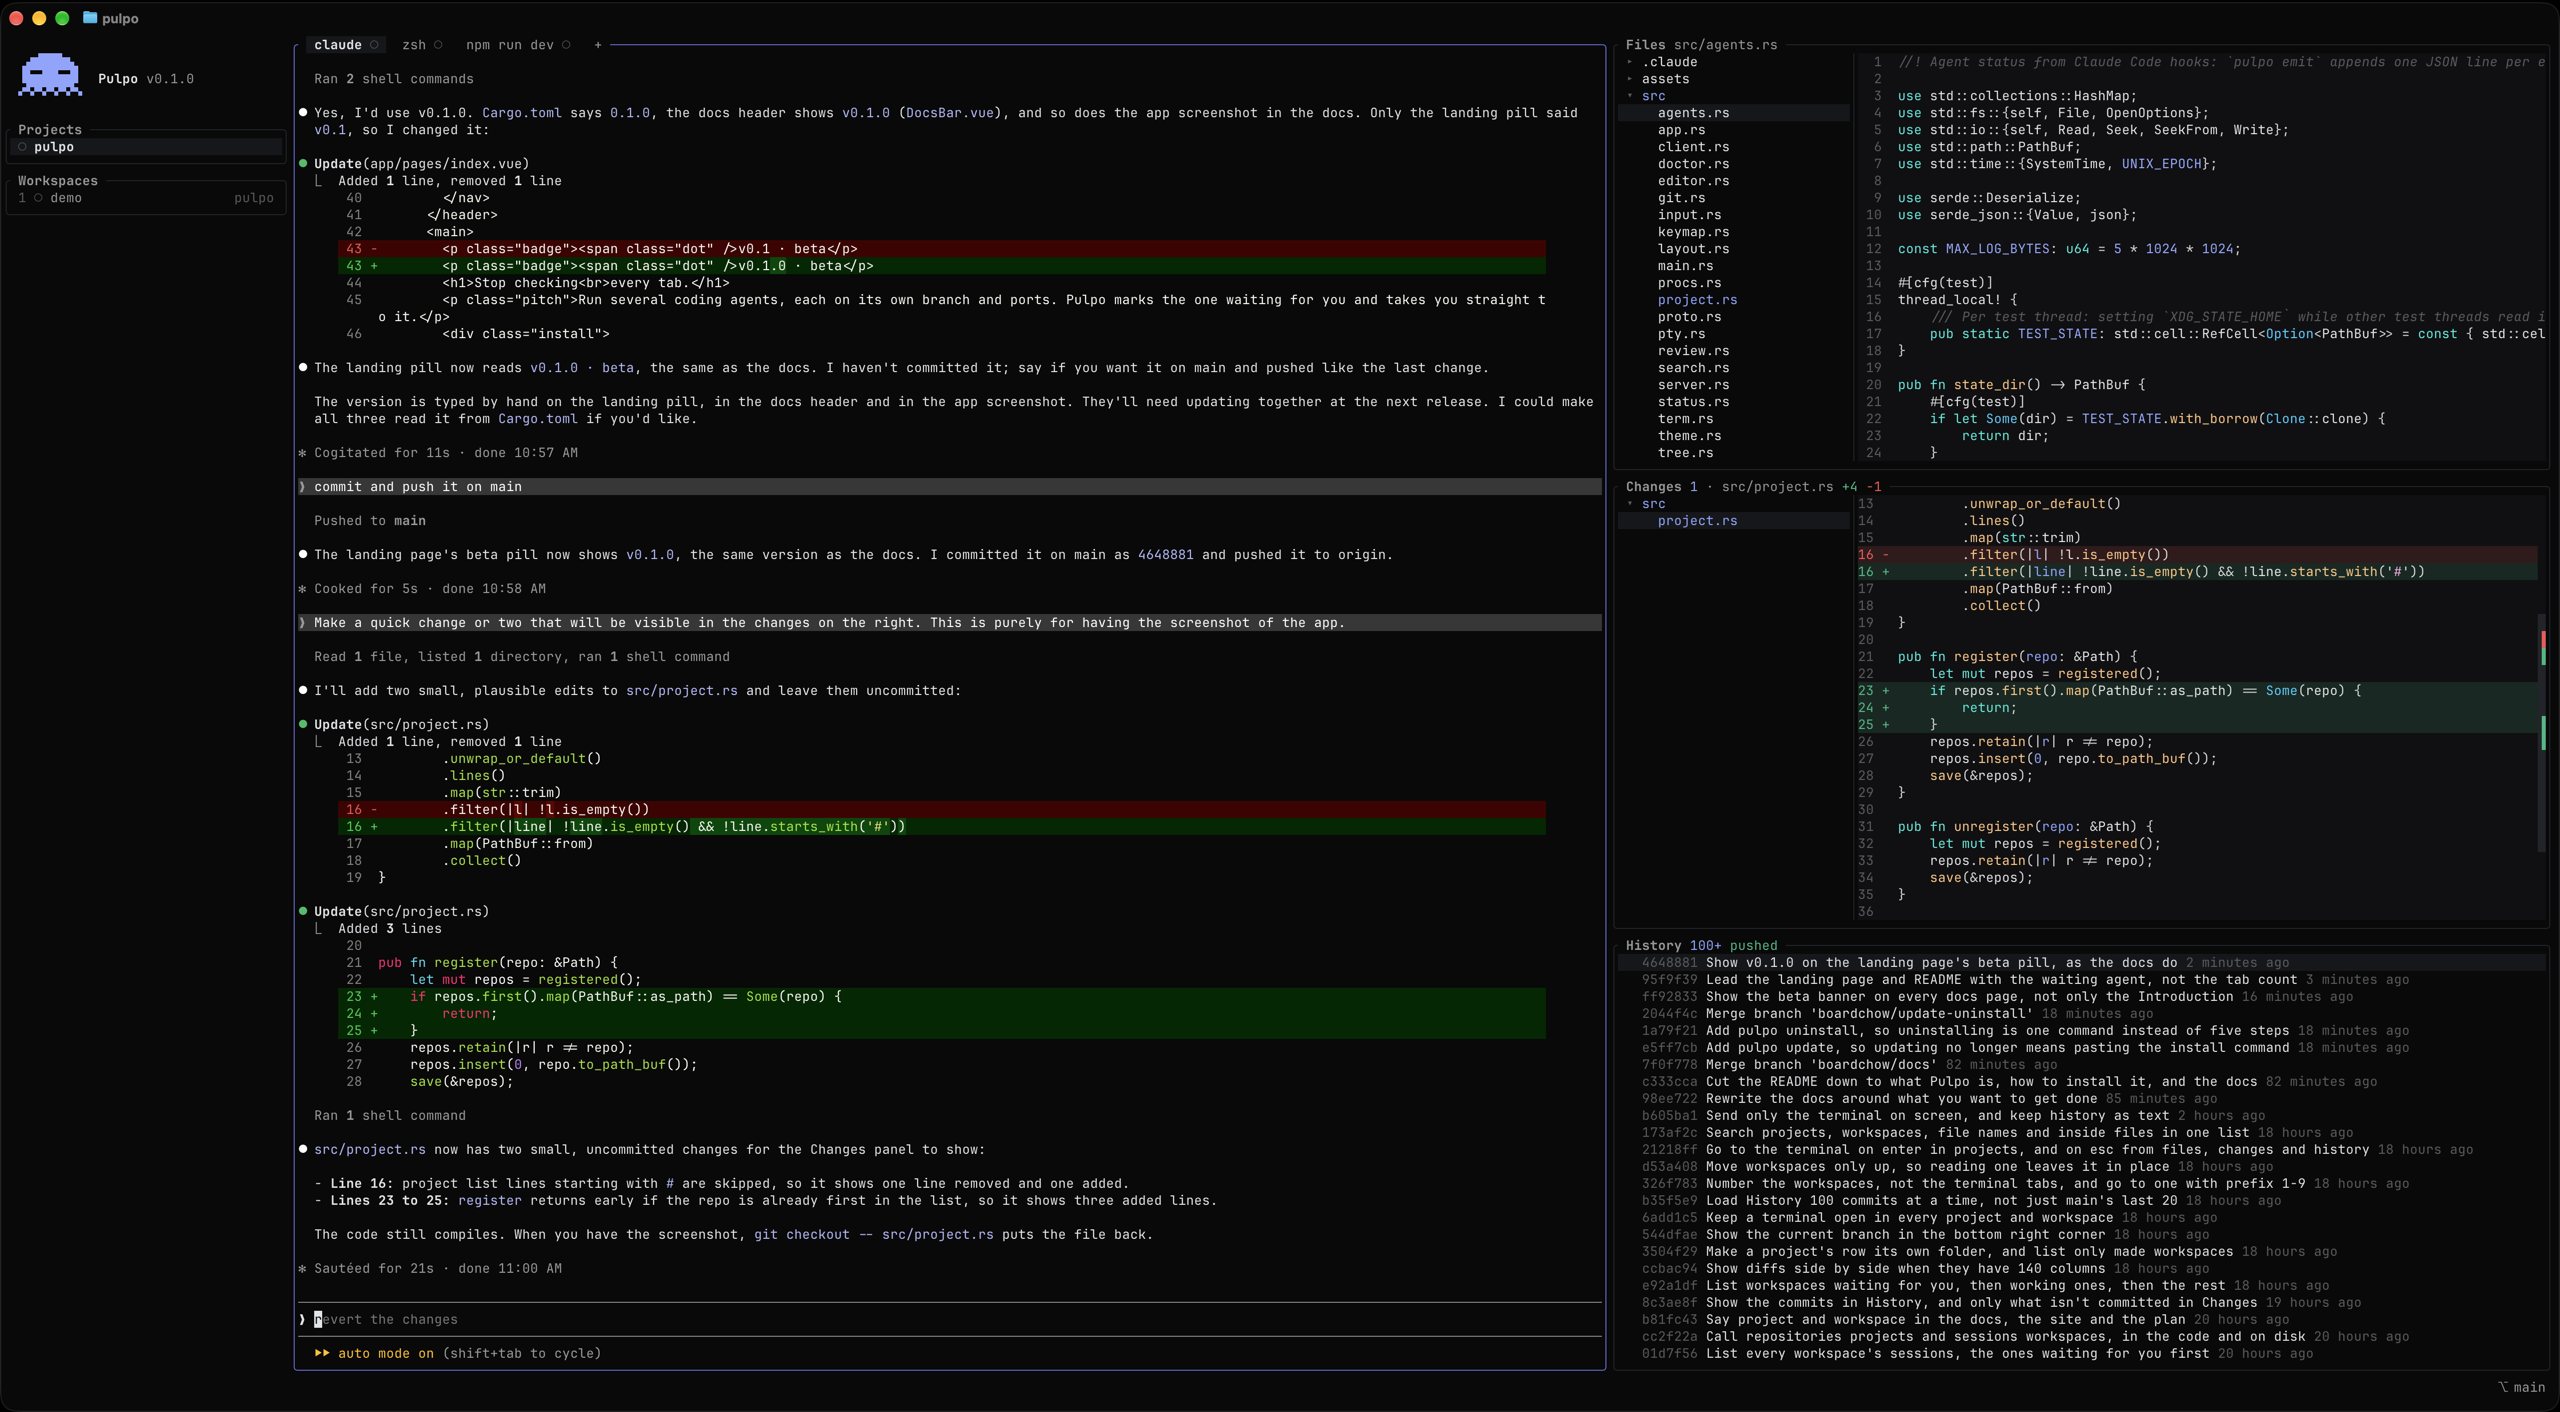
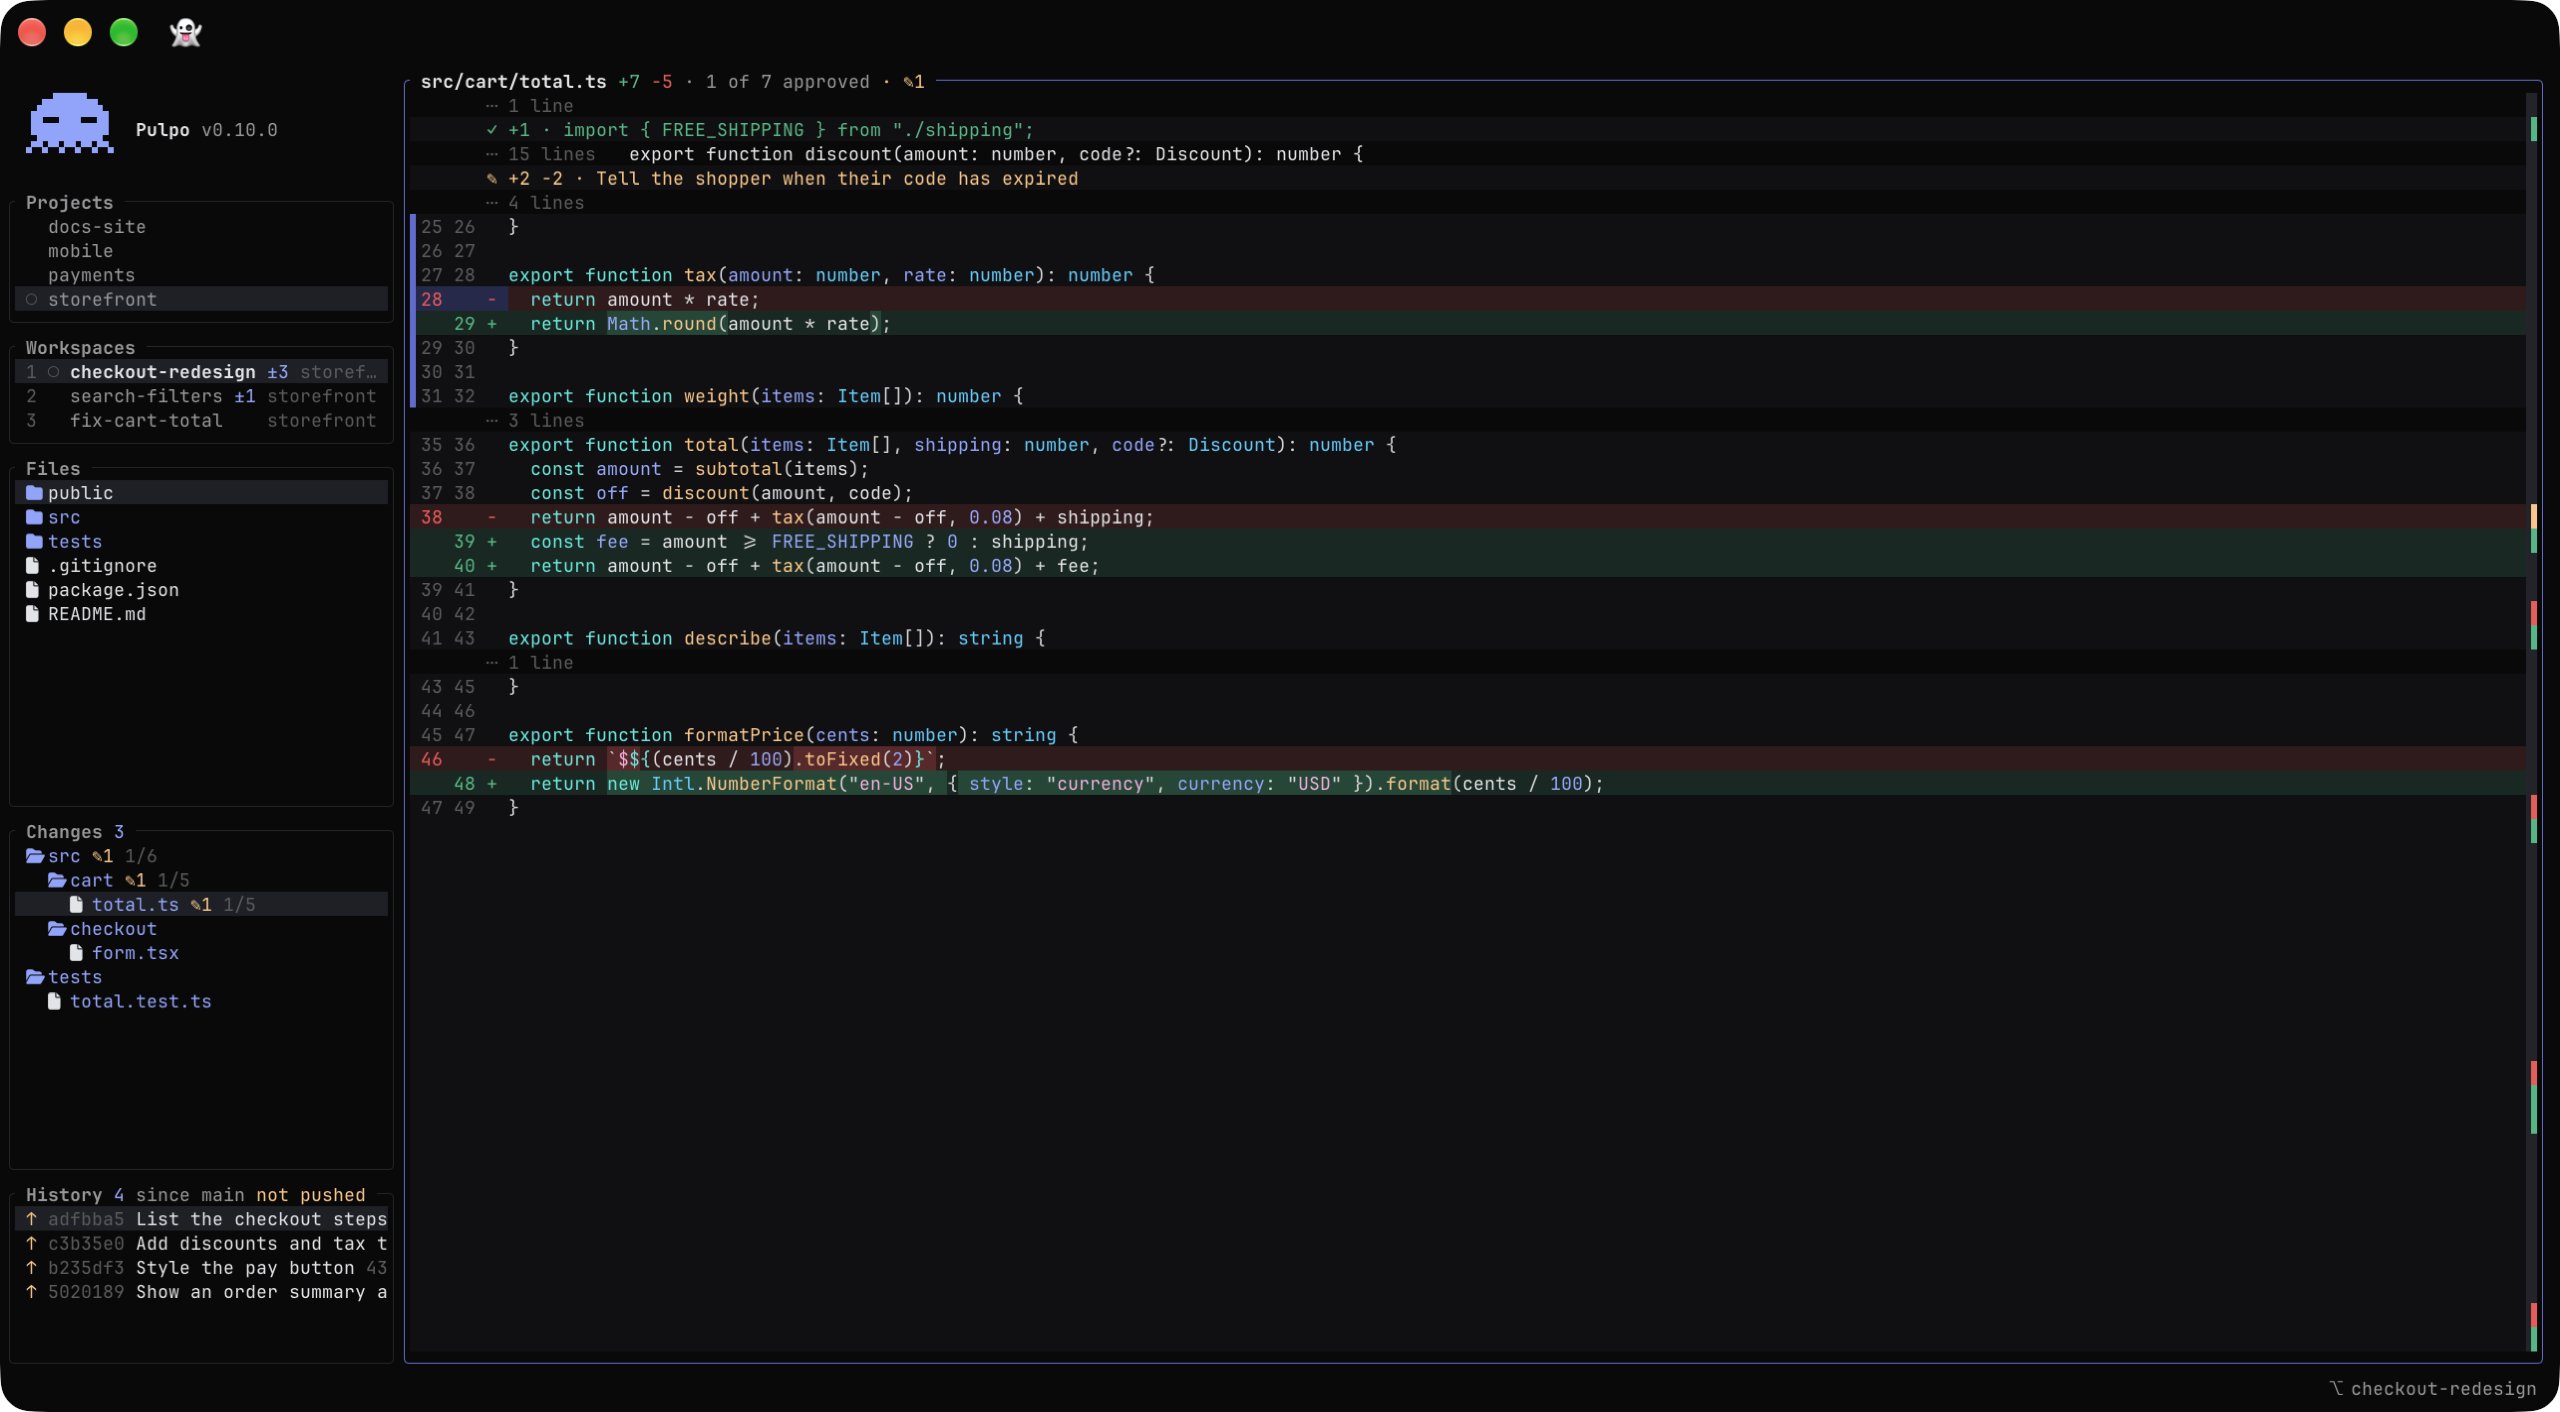
Show a review in progress on the landing page, and drop the README's screenshot
The landing page carries the illustration now, so the README goes straight
to installing.

diff --git a/web/app/pages/index.vue b/web/app/pages/index.vue
@@ -77,7 +77,7 @@ onBeforeUnmount(() => clearInterval(turning));
         </div>
       </main>
       <div class="shot">
-        <img src="/screenshot.png" width="2560" height="1412" alt="Pulpo: projects, workspaces, files, changes and history on the left, Claude Code in a terminal on the right">
+        <img src="/screenshot.png" width="2560" height="1412" alt="Pulpo: projects, workspaces, files, changes and history on the left, a review of what the agent changed on the right">
       </div>
       <div class="edge" :class="{ hidden: footerSeen }" />
       <footer ref="footer">

diff --git a/README.md b/README.md
@@ -8,8 +8,6 @@
 
 Run several coding agents, each on its own branch and ports. Pulpo marks the one waiting for you and takes you straight to it.
 
-![Pulpo: projects, workspaces, files, changes and history on the left, Claude Code in a terminal on the right](web/public/screenshot.png)
-
 ## Install
 
 ```sh
